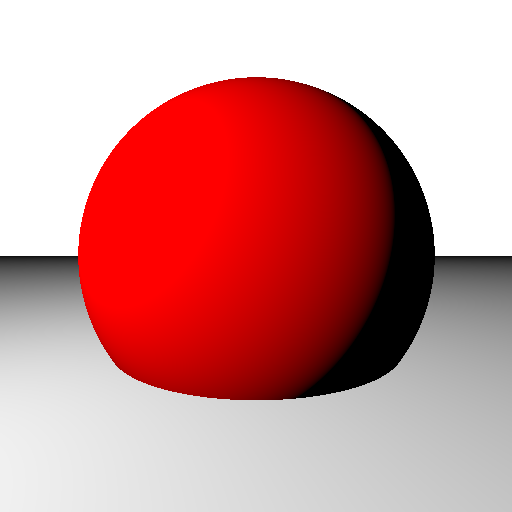
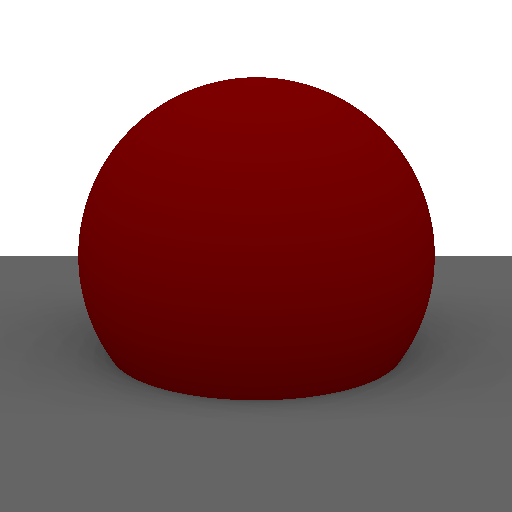
td2: implement sky emission

diff --git a/projets/tp2.cpp b/projets/tp2.cpp
@@ -146,15 +146,45 @@ Color compute_L_r(Point p, Material material, Color L_i, Vector n, Point p_light
     float cos_theta = std::max(float(0), dot(normalize(n), normalize(l)));
     Color L_r = { material.diffuse / M_PI * V * L_i * cos_theta , 1};
     return L_r;
+};
+
+float fract(const float v) { return v - std::floor(v); }
+
+// renvoie la ieme direction parmi n
+Vector fibonacci(const int i, const int N)
+{
+    const float ratio = (std::sqrt(5) + 1) / 2;
+
+    float phi = float(2 * M_PI) * fract(i / ratio);
+    float cos_theta = 1 - float(2 * i + 1) / float(N * 2);
+    float sin_theta = std::sqrt(1 - cos_theta * cos_theta);
+
+    return Vector(std::cos(phi) * sin_theta, std::sin(phi) * sin_theta, cos_theta);
+}
+
+Color compute_L_r_sky(Point p, Material material, Color L_i, Vector n, Point p_light, const Scene& scene) // Calcul de L_r, la lumière réfléchie par le point p        
+{
+    Color L_r;
+    int N = 256;
+    for (int i = 0; i < N; i++) {
+        Vector f = fibonacci(i, N);
+        Point p_eps = { p + epsilon_point(p) * n };
+        bool V = visible(scene, p_eps, f);
+        float cos_theta = std::max(float(0), dot(normalize(n), normalize(f)));
+        L_r = L_r + material.diffuse / M_PI * V * L_i * cos_theta;
+}
+    L_r = L_r / float(N);
+    return Color(L_r,1);
 }
 
 int main( )
 {
     Image image(512, 512);
+    Point camera_origin = Point(0, 0, 0);
 
     // Init scene
     Scene scene;
-    scene.plans.push_back({Point(0,-1,0),Vector(0,1,0), Material(Color(0.7)) });
+    scene.plans.push_back({Point(0,-1,0),Vector(0,1,0), Material(Color(0.9)) });
     scene.spheres.push_back({Point(0,0,-3.5),2, Material(Color(Red())) });
     scene.bg_color = Color(1);
     
@@ -168,17 +198,19 @@ int main( )
         Point e= Point(float(px)/float(image.height())*2-1,float(py)/float(image.width())*2-1, -1);
         
         // Point d'emission de lumiere
-        Emission sun = {Point(-2,1,-0.25), Color(5)};
+        Emission sun = {Point(-2,1,-0.25), Color(2)};
+        Color sky = Color(2);
         
         // Direction du rayon et rayon associe
-        Vector d= Vector(o, e);
-        Ray ray = {o,d,INFINITY};
+        Vector d= Vector(camera_origin, e);
+        Ray ray = {camera_origin,d,INFINITY};
 
         // Intersection et calcul de lumiere reflechie
         Hit hit = intersectScene(scene, ray);
         
         if (hit.t < INFINITY) {
-            Color l_r = compute_L_r(hit.p, hit.material, sun.color, hit.n, sun.p, scene);
+            Color l_r = compute_L_r_sky(hit.p, hit.material, sky, hit.n, sun.p, scene);
+            //Color l_r_sun = compute_L_r(hit.p, hit.material, sun.color, hit.n, sun.p, scene);
             image(px, py) = srgb(l_r);
         } else {
             image(px, py) = scene.bg_color;
